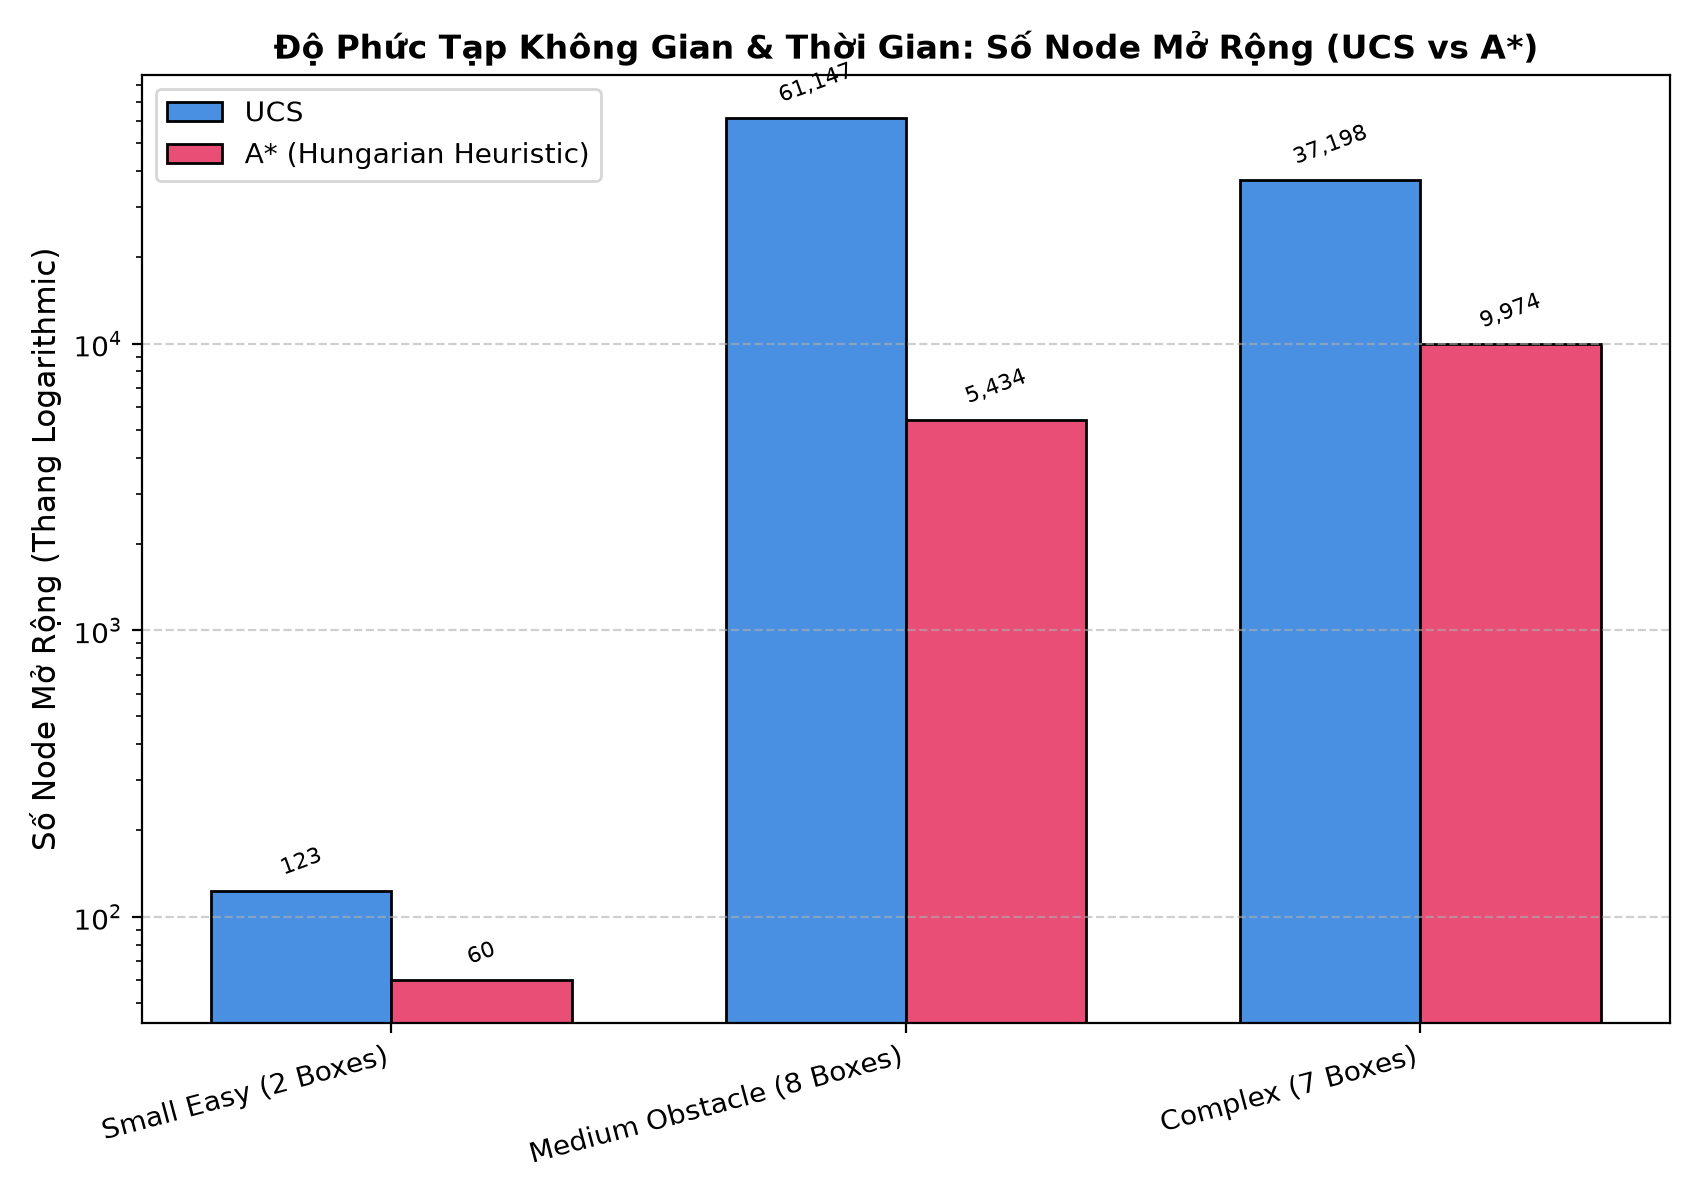
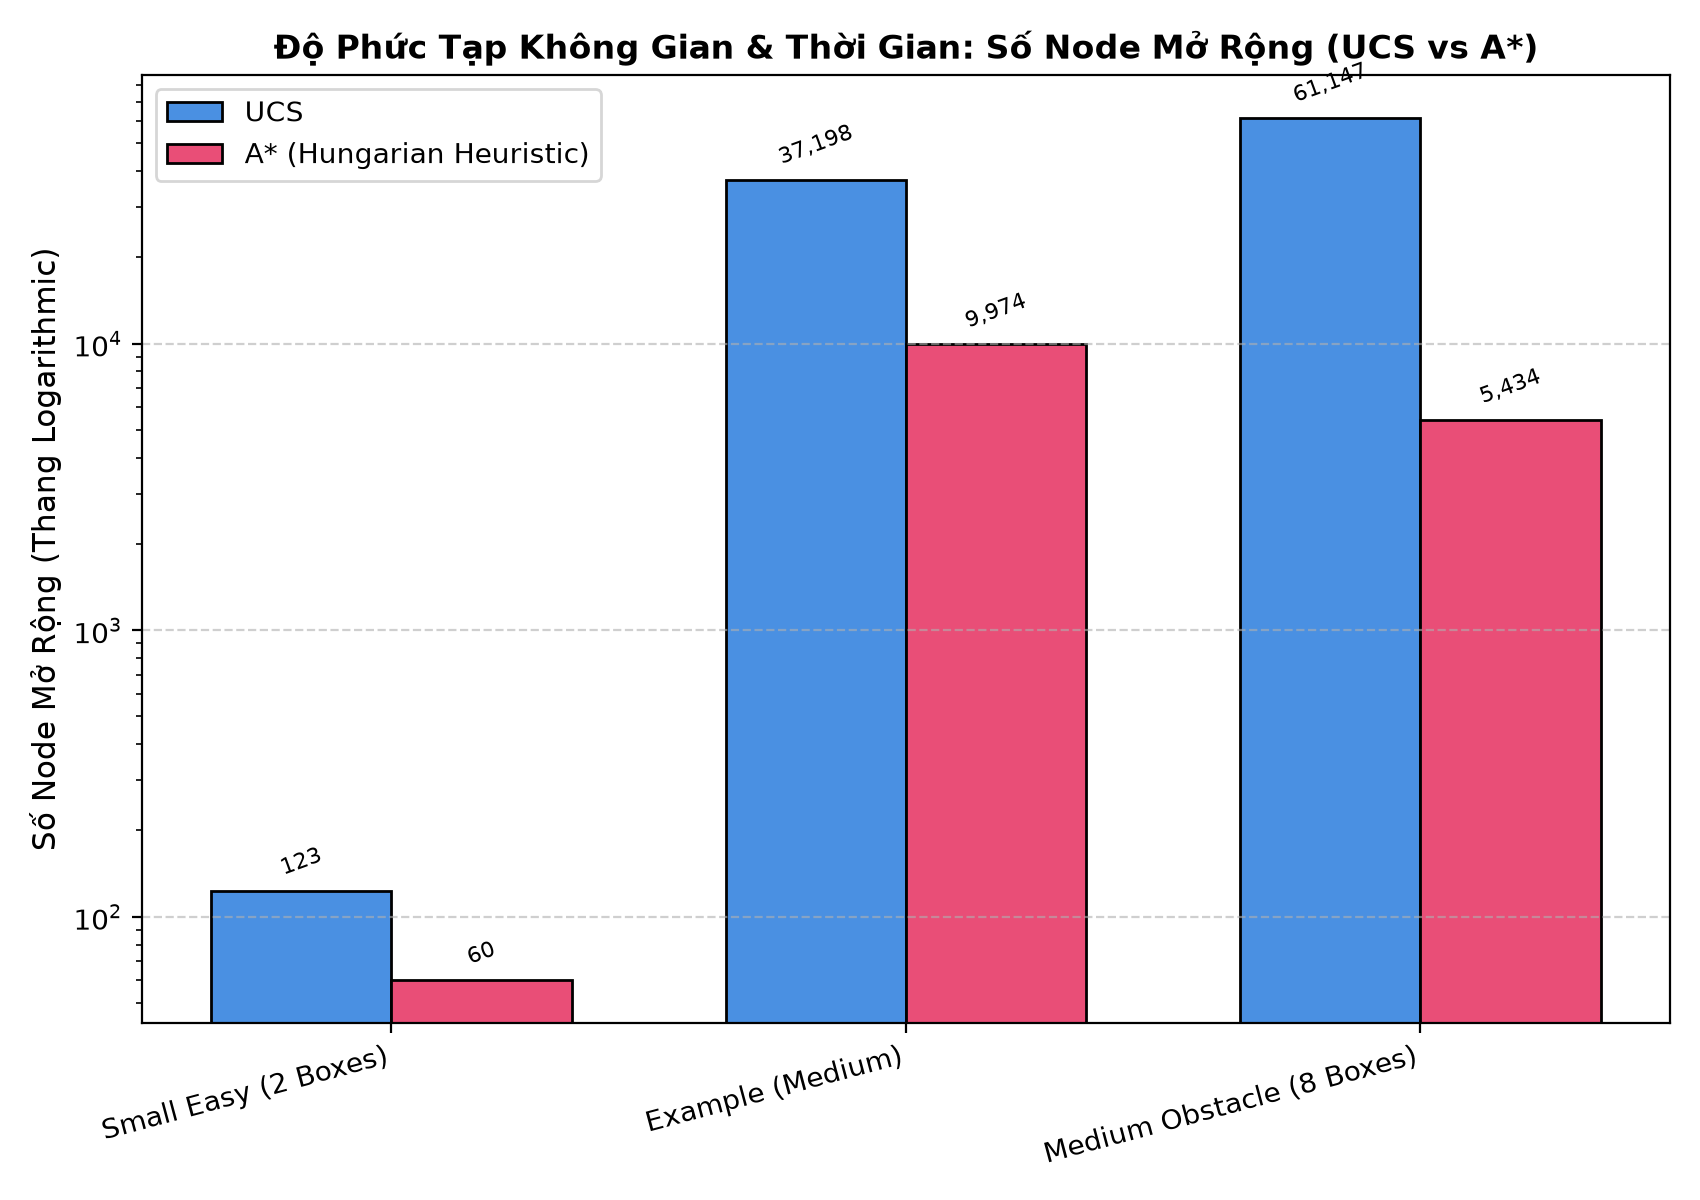
refactor(task3): reorder test cases with Example (Medium) 2nd and Medium Obstacle last

diff --git a/task3/benchmark.py b/task3/benchmark.py
@@ -65,8 +65,8 @@ def run_single_experiment(map_path: str, algorithm: str, timeout: float = 30.0) 
 def run_full_benchmark():
     test_cases = [
         {"name": "Small Easy (2 Boxes)", "file": "maps/map_easy.txt", "boxes": 2},
+        {"name": "Example (Medium)", "file": "maps/example_map.txt", "boxes": 7},
         {"name": "Medium Obstacle (8 Boxes)", "file": "maps/map_medium.txt", "boxes": 8},
-        {"name": "Complex (7 Boxes)", "file": "maps/example_map.txt", "boxes": 7},
     ]
 
     print("=" * 90)
